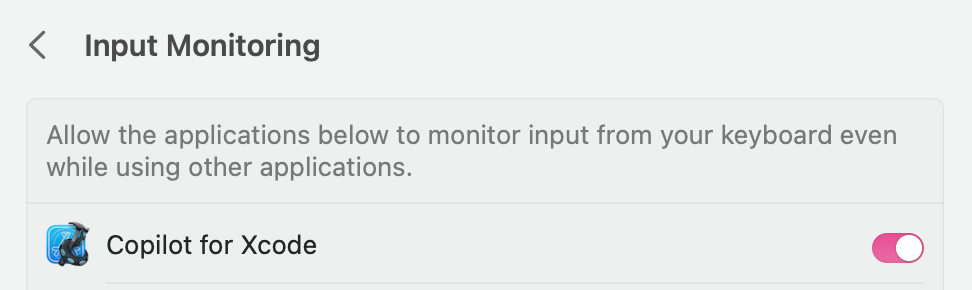
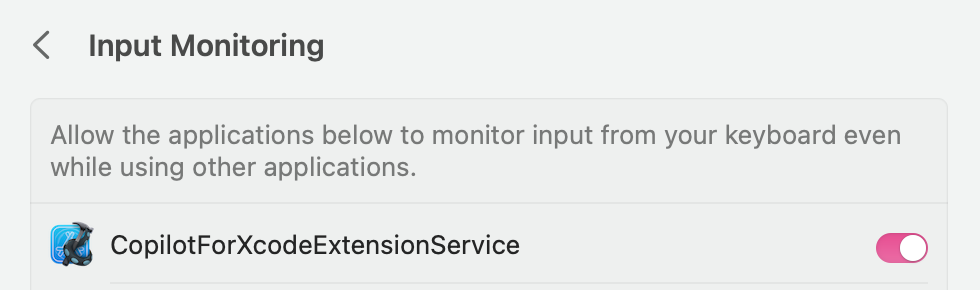
Update README.md

diff --git a/README.md b/README.md
@@ -67,15 +67,15 @@ Then set it up with the following steps:
 
 The first time the app is open and command run, the extension will ask for the necessary permissions. (except Input Monitoring, you have to enable it manually) 
 
-Alternatively, you may manually grant the required permissions by navigating to the `Privacy & Security` tab in the `System Settings.app`. Please note that different permissions must be assigned to different apps.
+Alternatively, you may manually grant the required permissions by navigating to the `Privacy & Security` tab in the `System Settings.app`.
 
 - To grant permissions for the Accessibility API, click `Accessibility`, and drag `CopilotForXcodeExtensionService.app` to the list. You can locate the extension app by clicking `Reveal Extension App in Finder` in the host app.
 
-![Accessibility API](/accessibility_api_permision.png)
+<img alt="Accessibility API" src="/accessibility_api_permission.png" width="500px">
 
-- To enable Input Monitoring (for real-time suggestions cancellation by pressing esc, arrow keys or clicking the mouse), click `Input Monitoring`, and add `Copilot for Xcode.app` to the list.
+- To enable Input Monitoring (for real-time suggestions cancellation by pressing esc, arrow keys or clicking the mouse), click `Input Monitoring`, and drag `CopilotForXcodeExtensionService.app` to the list. You can locate the extension app by clicking `Reveal Extension App in Finder` in the host app.
 
-![Input Monitoring](/input_monitoring_permission.png)
+<img alt="Input Monitoring" src="/input_monitoring_permission.png" width="500px">
 
 If you encounter an alert requesting permission that you have previously granted, please remove the permission from the list and add it again to re-grant the necessary permissions.
 
